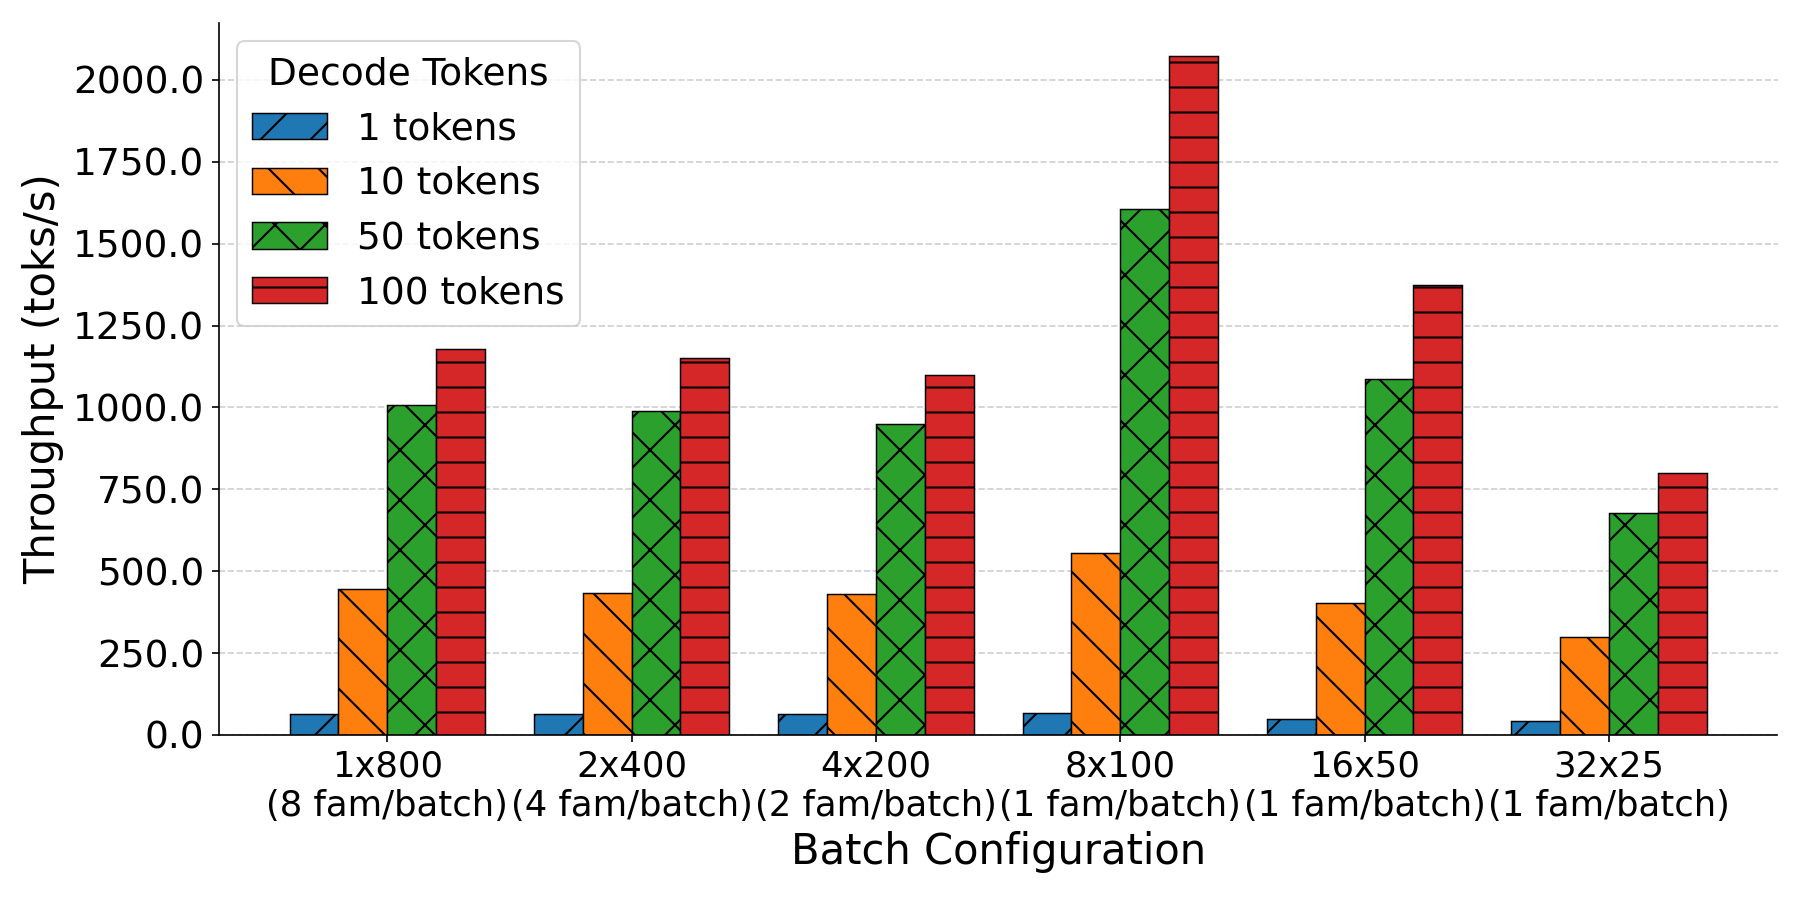
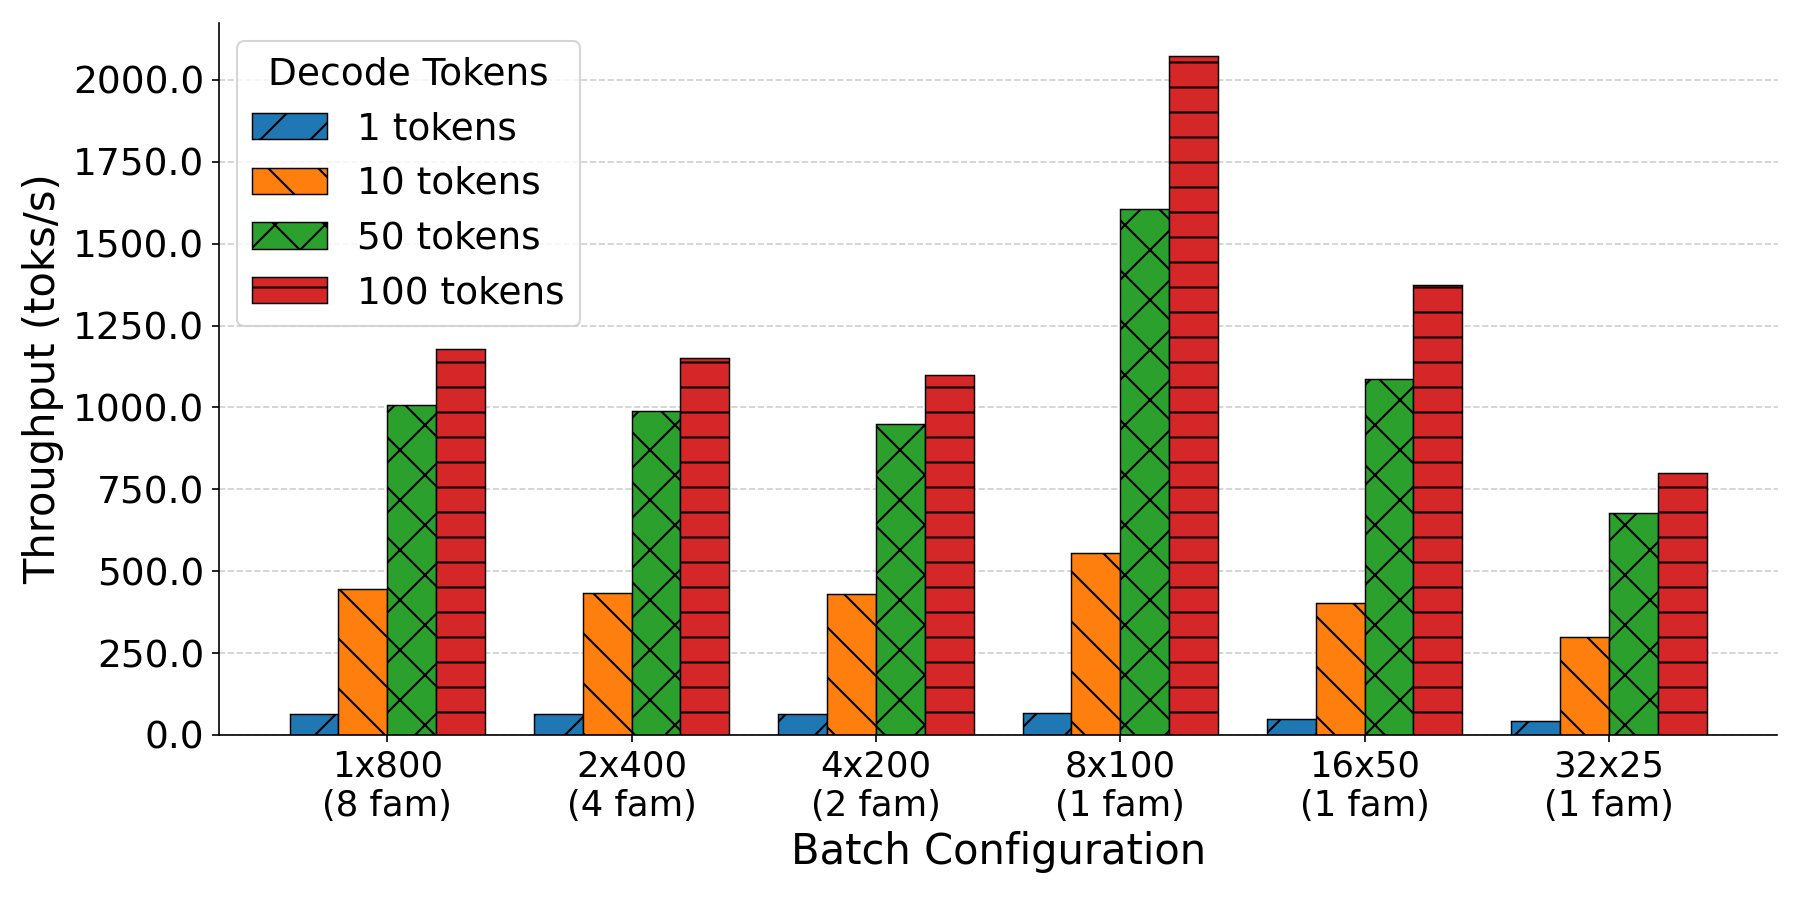
updated motivation plots

Changed region(s): [[0.1556, 0.8711, 0.9644, 0.9333]]

diff --git a/code/vllm/homo_hetero/plot_barchart.py b/code/vllm/homo_hetero/plot_barchart.py
@@ -27,12 +27,12 @@ df = df[df["max_new_tokens"].isin([1, 10, 50, 100])].copy()
 df = df.sort_values(["max_new_tokens", "mode"]).reset_index(drop=True)
 
 SETTINGS = [
-    "1x800\n(8 fam/batch)",
-    "2x400\n(4 fam/batch)",
-    "4x200\n(2 fam/batch)",
-    "8x100\n(1 fam/batch)",
-    "16x50\n(1 fam/batch)",
-    "32x25\n(1 fam/batch)",
+    "1x800\n(8 fam)",
+    "2x400\n(4 fam)",
+    "4x200\n(2 fam)",
+    "8x100\n(1 fam)",
+    "16x50\n(1 fam)",
+    "32x25\n(1 fam)",
 ]
 
 tokens = sorted(df["max_new_tokens"].unique())
